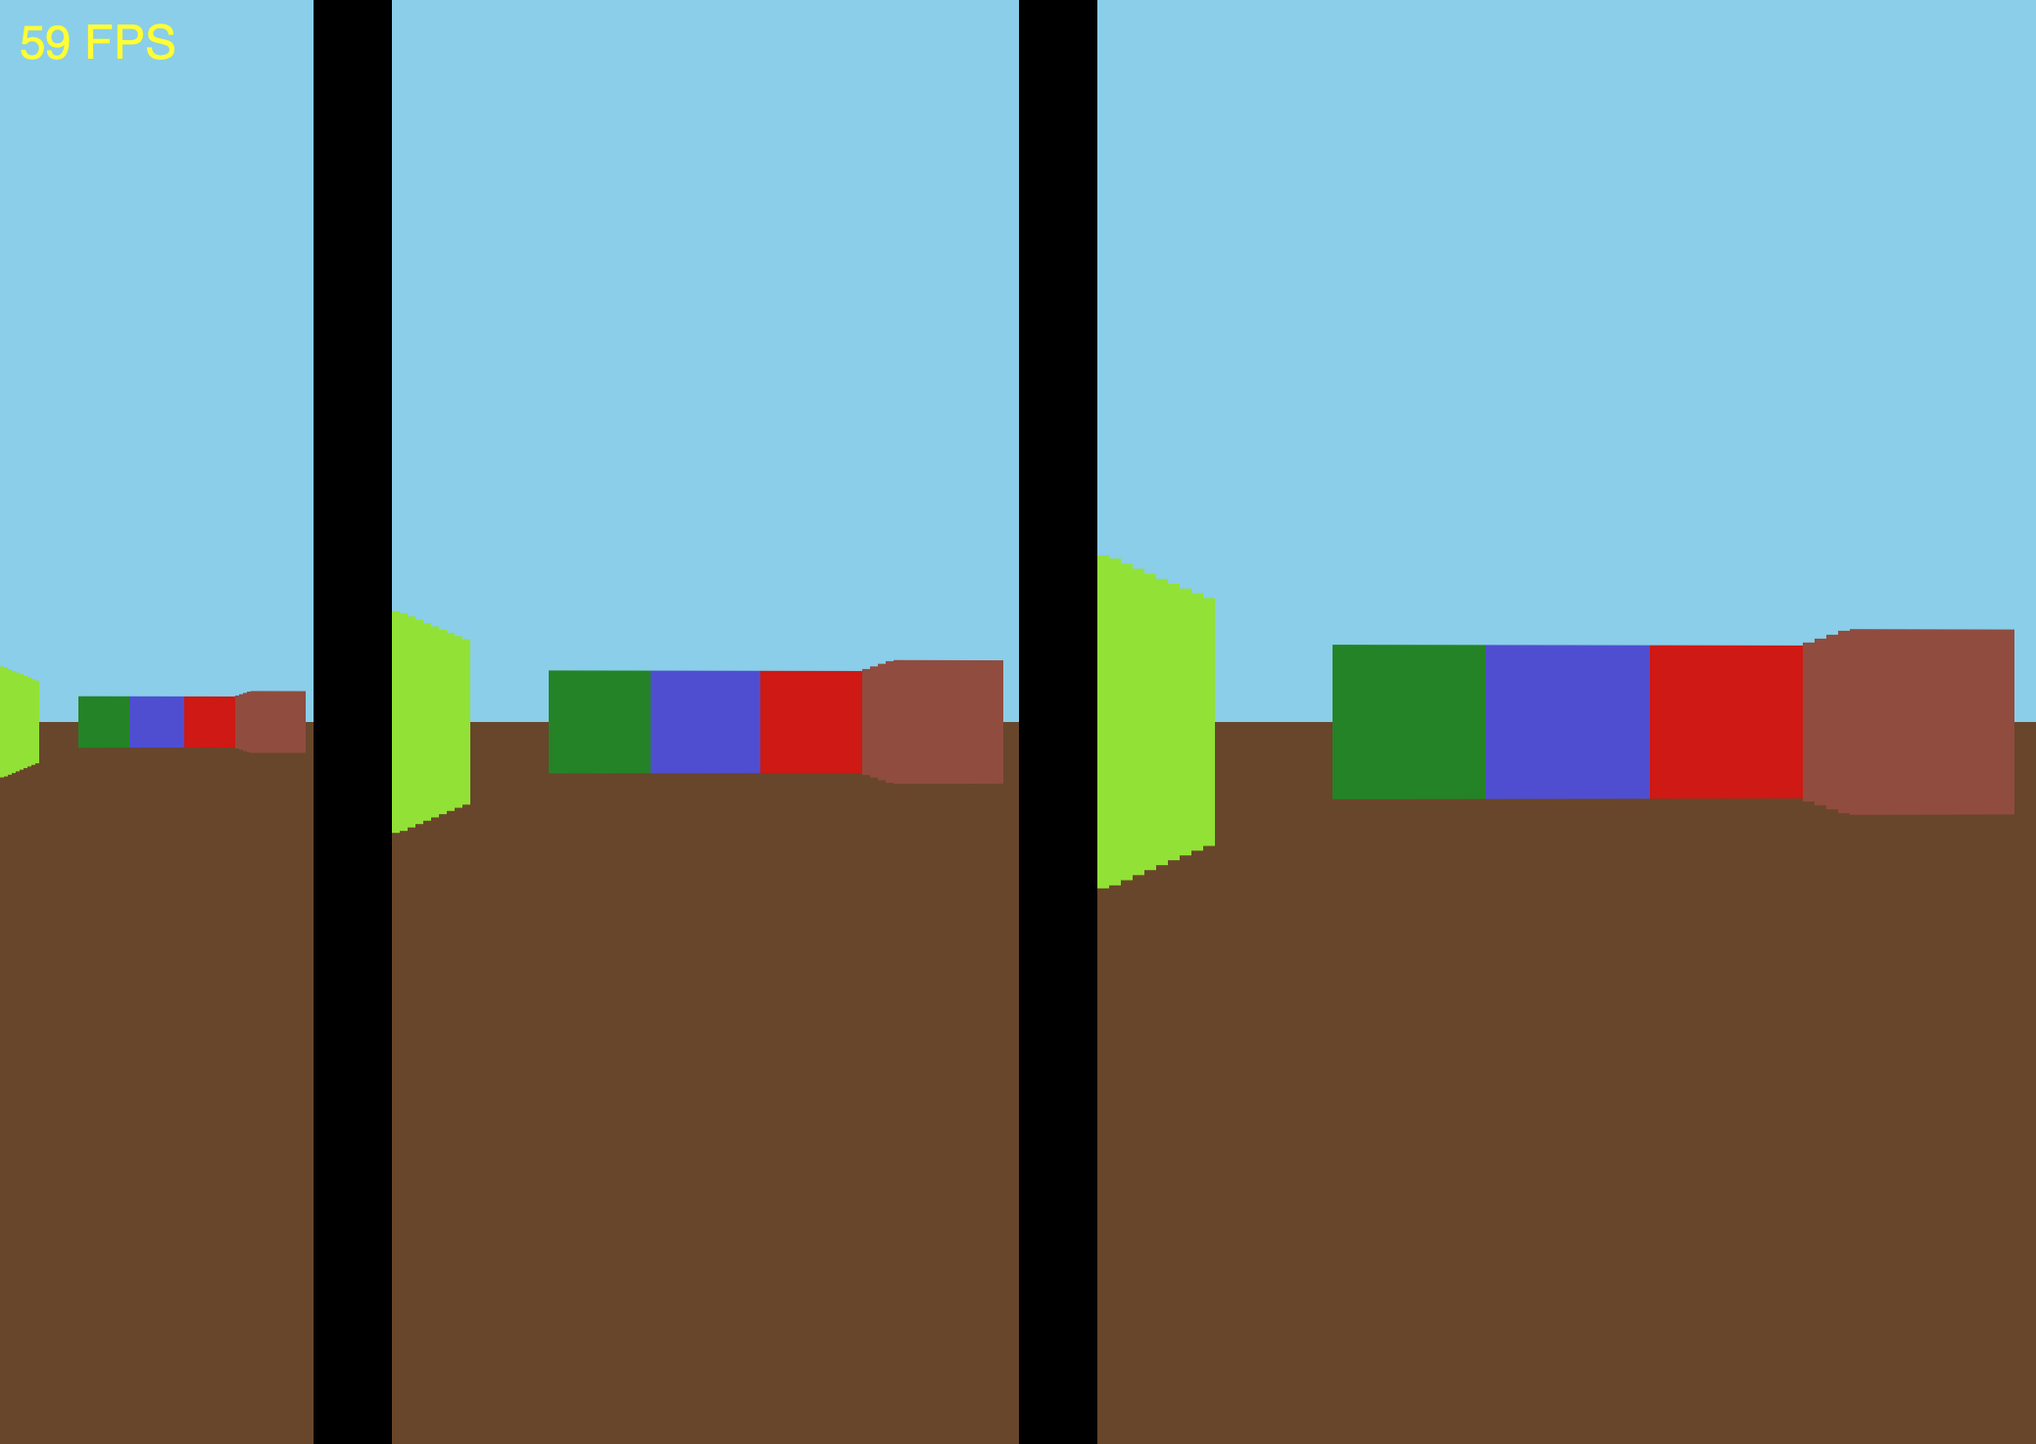
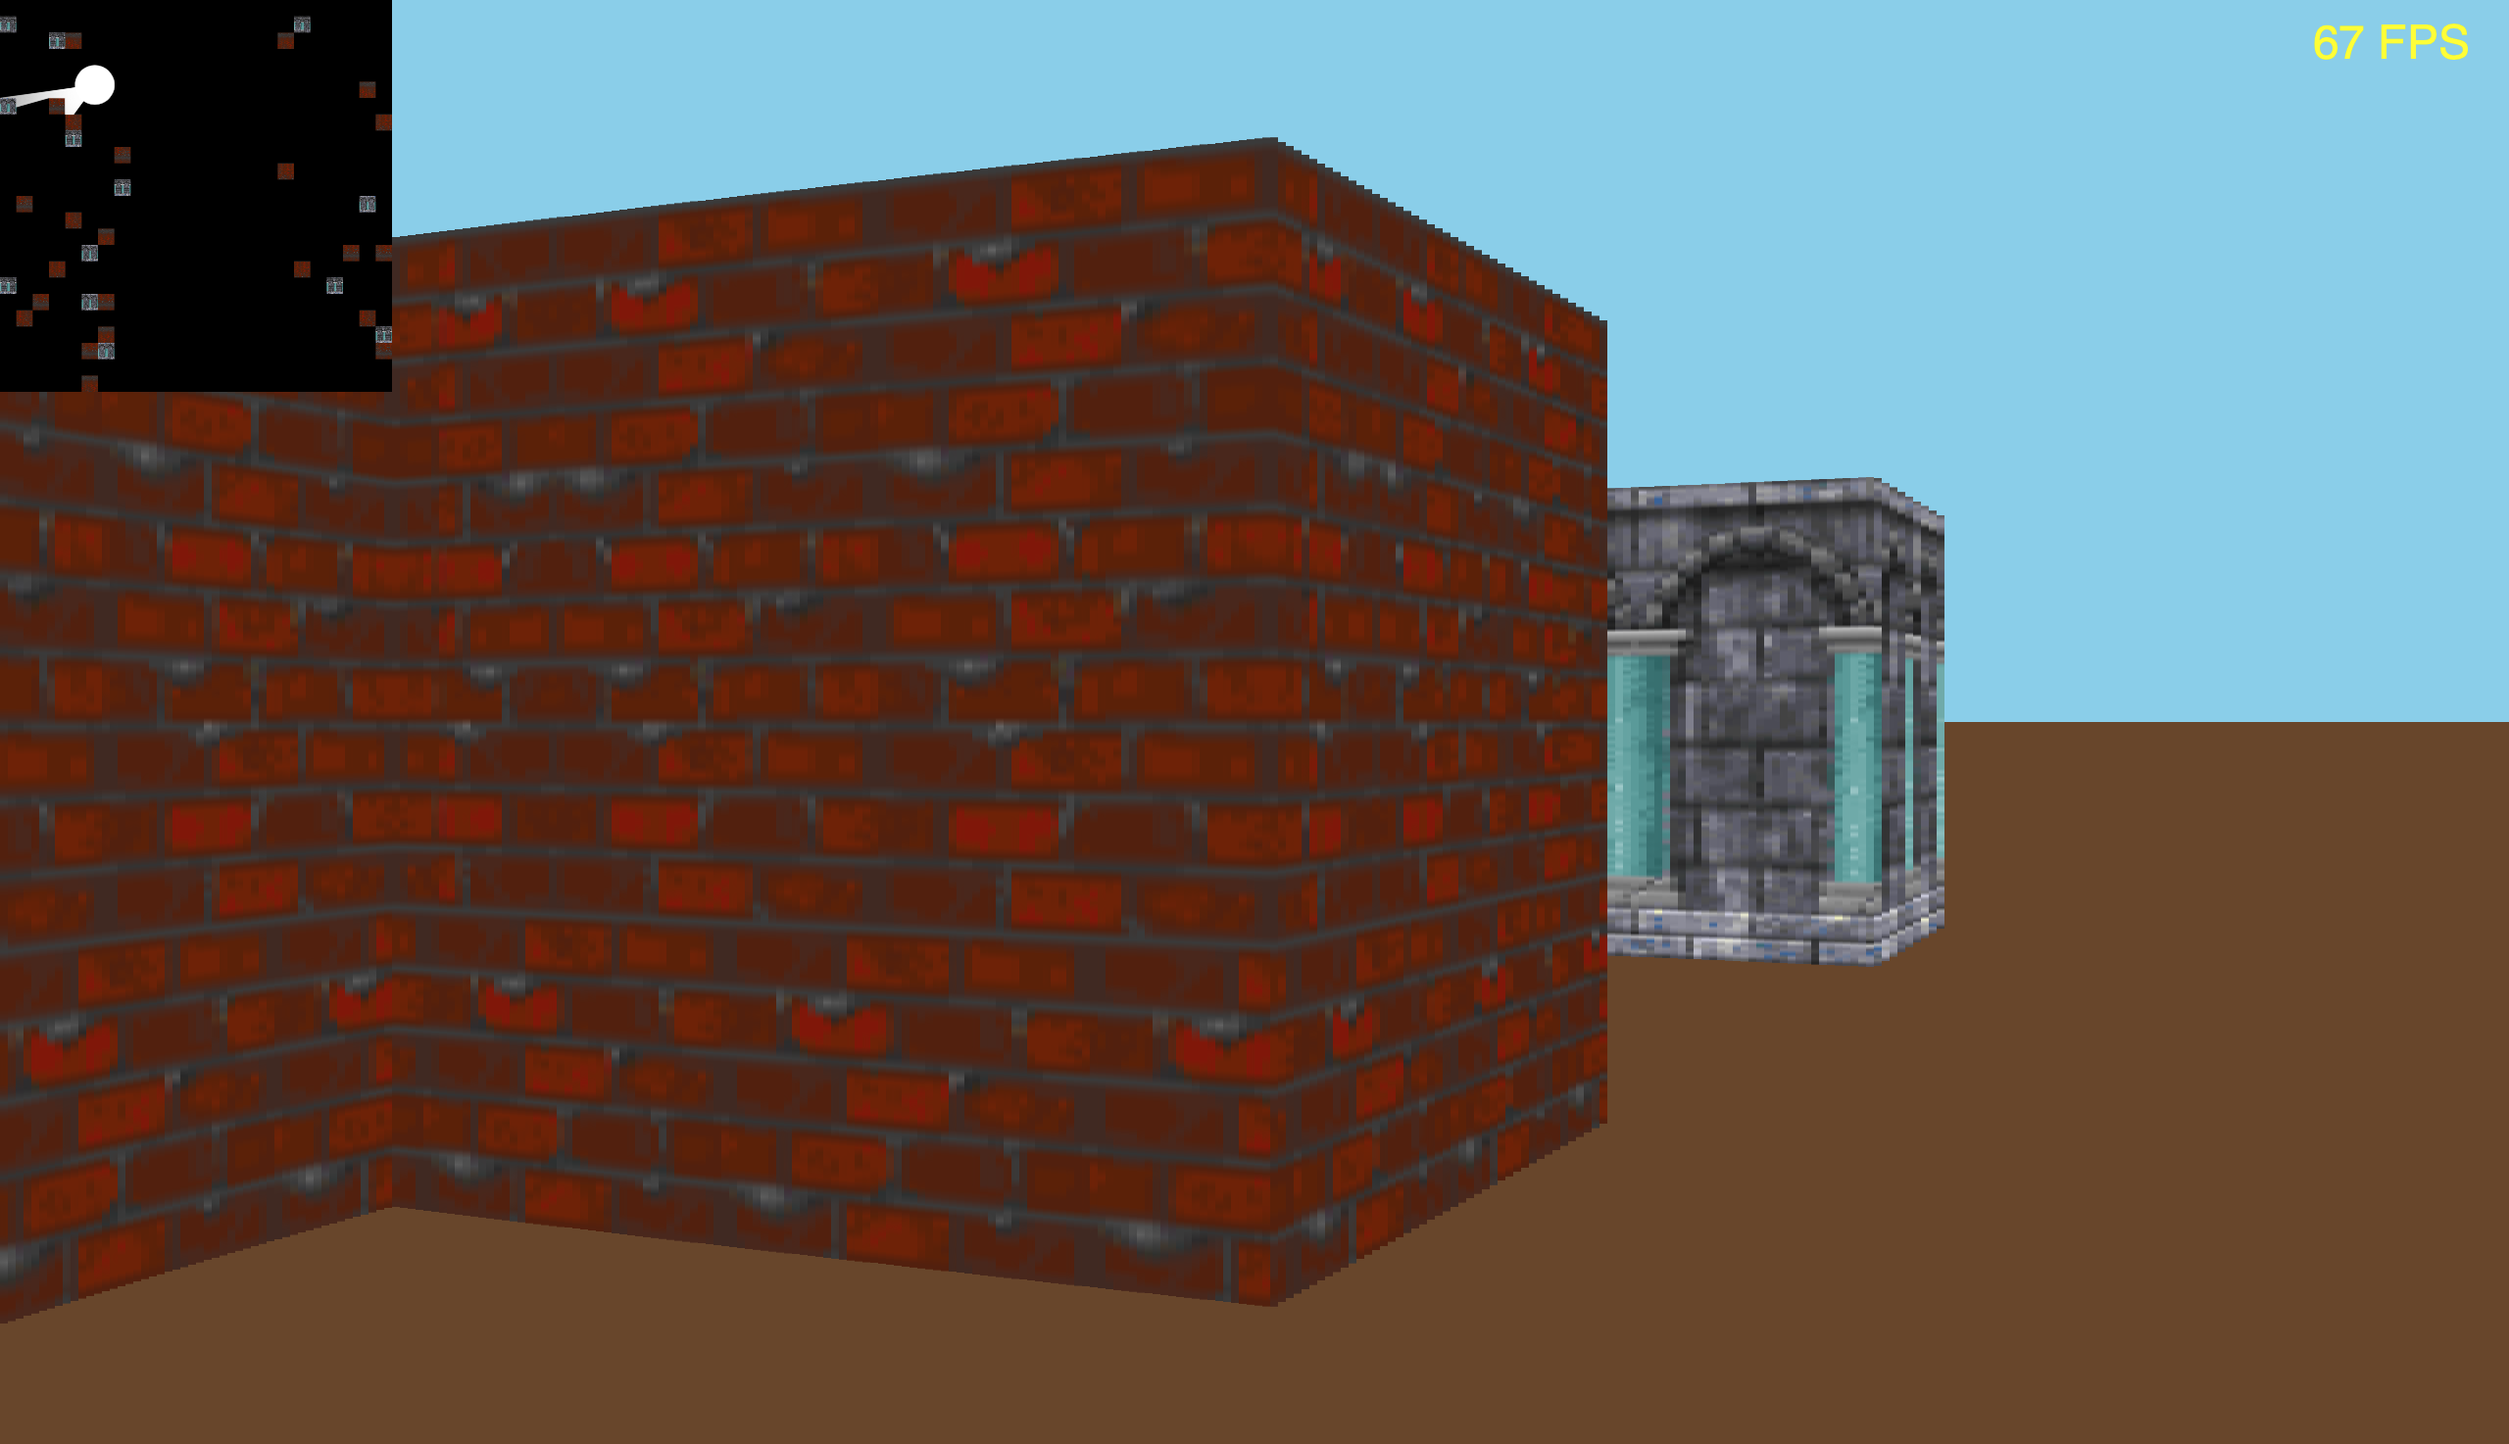
Add texturing

diff --git a/build/build.js b/build/build.js
@@ -2,8 +2,6 @@ var p;
 var sketch = function (context) {
     p = context;
     var game;
-    p.preload = function () {
-    };
     p.setup = function () {
         p.createCanvas(p.windowWidth, p.windowHeight, p.P2D);
         p.frameRate(60);
@@ -20,17 +18,6 @@ var sketch = function (context) {
         p.background(0);
         game.update();
     };
-};
-var skewImage = function (image, x, y, sliceWidth, left, right) {
-    var slices = p.floor(image.width / sliceWidth);
-    var sw = p.floor(image.width / slices);
-    var step = (right - left) / slices;
-    var h = left;
-    p.imageMode(p.CENTER);
-    for (var i = 0; i < slices; i++) {
-        p.image(image, x + (i + 0.5) * sliceWidth, y, sliceWidth, h, i * sw, 0, sw, image.height);
-        h += step;
-    }
 };
 var sketchP5 = new p5(sketch);
 var GameController = (function () {
@@ -85,7 +72,7 @@ var GameController = (function () {
 }());
 var Actor = (function () {
     function Actor(x, y, nRays) {
-        if (nRays === void 0) { nRays = 160; }
+        if (nRays === void 0) { nRays = 320; }
         this.pos = p.createVector(x, y);
         this.angle = 0;
         this.fov = p.radians(60);
@@ -242,16 +229,16 @@ var __extends = (this && this.__extends) || (function () {
     };
 })();
 var Segment = (function () {
-    function Segment(x1, y1, x2, y2, h, clr) {
-        if (clr === void 0) { clr = null; }
+    function Segment(x1, y1, x2, y2, h, tex) {
+        if (tex === void 0) { tex = null; }
         this.a = p.createVector(x1, y1);
         this.b = p.createVector(x2, y2);
         this.h = h;
-        if (clr) {
-            this.c = clr;
+        if (tex) {
+            this.texture = tex;
         }
         else {
-            this.c = p.color(p.random(255), p.random(255), p.random(255));
+            this.texture = p.loadImage('../../assets/textures/wall.bmp');
         }
     }
     Segment.prototype.getSegments = function () {
@@ -265,7 +252,7 @@ var Segment = (function () {
         configurable: true
     });
     Segment.prototype.show = function () {
-        p.stroke(this.c);
+        p.stroke(255, 0, 0);
         p.line(this.a.x, this.a.y, this.b.x, this.b.y);
     };
     return Segment;
@@ -276,21 +263,18 @@ var Rectangle = (function () {
         this.a = a;
         this.b = b;
         this.h = h;
-        var clr = p.color(p.random(255), p.random(255), p.random(255));
+        this.texture = p.loadImage("../../assets/textures/" + (p.random() < 0.5 ? 'archs' : 'wall') + ".bmp");
         this.segments = new Array(4);
-        this.segments[0] = new Segment(this.position.x, this.position.y, this.position.x + this.a, this.position.y, this.h, clr);
-        this.segments[1] = new Segment(this.position.x, this.position.y, this.position.x, this.position.y + this.b, this.h, clr);
-        this.segments[2] = new Segment(this.position.x + this.a, this.position.y, this.position.x + this.a, this.position.y + this.b, this.h, clr);
-        this.segments[3] = new Segment(this.position.x, this.position.y + this.b, this.position.x + this.a, this.position.y + this.b, this.h, clr);
+        this.segments[0] = new Segment(this.position.x, this.position.y, this.position.x + this.a, this.position.y, this.h, this.texture);
+        this.segments[1] = new Segment(this.position.x, this.position.y, this.position.x, this.position.y + this.b, this.h, this.texture);
+        this.segments[2] = new Segment(this.position.x + this.a, this.position.y, this.position.x + this.a, this.position.y + this.b, this.h, this.texture);
+        this.segments[3] = new Segment(this.position.x, this.position.y + this.b, this.position.x + this.a, this.position.y + this.b, this.h, this.texture);
     }
     Rectangle.prototype.getSegments = function () {
         return this.segments;
     };
     Rectangle.prototype.show = function () {
-        for (var _i = 0, _a = this.segments; _i < _a.length; _i++) {
-            var segment = _a[_i];
-            segment.show();
-        }
+        p.image(this.texture, this.position.x, this.position.y, this.a, this.b);
     };
     return Rectangle;
 }());
@@ -406,12 +390,15 @@ var FirstPersonView = (function (_super) {
                 var offset = p.map(_this.state.actor.rays[i].angle, _this.state.actor.angle - _this.state.actor.fov / 2, _this.state.actor.angle + _this.state.actor.fov / 2, 0, _this.width);
                 var alpha_1 = _this.state.actor.rays[i].angle - _this.state.actor.angle;
                 var cameraDist = c.distance * p.cos(alpha_1);
-                var h = p.min(_this.height, _this.height / cameraDist * (_this.width / (p.displayHeight / c.segment.h)));
+                var h = _this.height / cameraDist * (_this.width / (p.displayHeight / c.segment.h));
                 p.push();
                 p.translate(_this.x, _this.y);
-                p.fill(c.segment.c);
-                p.rectMode(p.CENTER);
-                p.rect(offset + 0.5 * w, _this.height / 2, w, h);
+                var ai = p5.Vector.dist(c.segment.a, c.point);
+                var ib = p5.Vector.dist(c.segment.b, c.point);
+                var sx = ai / (ai + ib) * c.segment.texture.width;
+                var sw = c.segment.texture.width / _this.state.actor.rays.length * ((c.segment.length * p.sqrt(3) / 2) / cameraDist);
+                p.imageMode(p.CENTER);
+                p.image(c.segment.texture, offset + 0.5 * w, _this.height / 2, w, h, sx, 0, sw, c.segment.texture.height);
                 p.pop();
             }
         });

diff --git a/sketch/models/shapes.ts b/sketch/models/shapes.ts
@@ -7,18 +7,18 @@ class Segment implements IShape {
     public a: p5.Vector;
     public b: p5.Vector;
     public h: number;
-    public c: p5.Color;
+    public texture: p5.Image;
 
-    constructor(x1: number, y1: number, x2: number, y2: number, h: number, clr: p5.Color = null) {
+    constructor(x1: number, y1: number, x2: number, y2: number, h: number, tex: p5.Image = null) {
         this.a = p.createVector(x1, y1);
         this.b = p.createVector(x2, y2);
         this.h = h;
 
-        if (clr) {
-            this.c = clr;
+        if (tex) {
+            this.texture = tex;
         }
         else {
-            this.c = p.color(p.random(255), p.random(255), p.random(255));
+            this.texture = p.loadImage('../../assets/textures/wall.bmp');
         }
     }
 
@@ -31,7 +31,7 @@ class Segment implements IShape {
     }
 
     public show(): void {
-        p.stroke(this.c);
+        p.stroke(255, 0, 0);
         p.line(this.a.x, this.a.y, this.b.x, this.b.y);
     }
 }
@@ -41,6 +41,7 @@ class Rectangle implements IShape {
     protected a: number;
     protected b: number;
     protected h: number;
+    protected texture: p5.Image;
     protected segments: Segment[];
 
     constructor(x: number, y: number, a: number, b: number, h: number) {
@@ -49,13 +50,13 @@ class Rectangle implements IShape {
         this.b = b;
         this.h = h;
 
-        const clr = p.color(p.random(255), p.random(255), p.random(255));
+        this.texture = p.loadImage(`../../assets/textures/${p.random() < 0.5 ? 'archs' : 'wall'}.bmp`);
 
         this.segments = new Array(4);
-        this.segments[0] = new Segment(this.position.x, this.position.y, this.position.x + this.a, this.position.y, this.h, clr);
-        this.segments[1] = new Segment(this.position.x, this.position.y, this.position.x, this.position.y + this.b, this.h, clr);
-        this.segments[2] = new Segment(this.position.x + this.a, this.position.y, this.position.x + this.a, this.position.y + this.b, this.h, clr);
-        this.segments[3] = new Segment(this.position.x, this.position.y + this.b, this.position.x + this.a, this.position.y + this.b, this.h, clr);
+        this.segments[0] = new Segment(this.position.x, this.position.y, this.position.x + this.a, this.position.y, this.h, this.texture);
+        this.segments[1] = new Segment(this.position.x, this.position.y, this.position.x, this.position.y + this.b, this.h, this.texture);
+        this.segments[2] = new Segment(this.position.x + this.a, this.position.y, this.position.x + this.a, this.position.y + this.b, this.h, this.texture);
+        this.segments[3] = new Segment(this.position.x, this.position.y + this.b, this.position.x + this.a, this.position.y + this.b, this.h, this.texture);
     }
 
     public getSegments(): Segment[] {
@@ -63,9 +64,7 @@ class Rectangle implements IShape {
     }
 
     public show() {
-        for (let segment of this.segments) {
-            segment.show();
-        }
+        p.image(this.texture, this.position.x, this.position.y, this.a, this.b);
     }
 }
 

diff --git a/sketch/sketch.ts b/sketch/sketch.ts
@@ -3,17 +3,13 @@ var p: p5;
 var sketch = (context: p5) => {
     p = context;
     var game: GameController;
-    //var texture: p5.Image;
-
-    p.preload = () => {
-        //texture = p.loadImage("../assets/textures/archs.bmp");
-    }
 
     p.setup = () => {
         p.createCanvas(p.windowWidth, p.windowHeight, p.P2D);
         p.frameRate(60);
         p.textSize(30);
 
+        // * FULL-SCREEN VIEW WITH MINIMAP
         const state = new GameState(24, 24);
         const view = new CompositeView([
             new FirstPersonView(0, 0, p.width, p.height, state),
@@ -21,29 +17,34 @@ var sketch = (context: p5) => {
             new FPSView(p.width - 100, 30)
         ]);
 
+        // * SPLIT-SCREEN VIEW
+        // const view = new CompositeView([
+        //     new FirstPersonView(p.width / 2, 0, p.width / 2, p.height, state),
+        //     new RaycastView(0, 0, p.width / 2, p.height, state),
+        //     new FPSView(p.width - 100, 30)
+        // ]);
+
         game = new GameController(state, view);
     }
 
     p.draw = () => {
         p.background(0);
         game.update();
-
-        // TODO: Texturing
-        //skewImage(texture, p.width / 2, 200, 4, 100, 200);
     }
 }
 
-var skewImage = (image: p5.Image, x: number, y: number, sliceWidth: number, left: number, right: number) => {
-    const slices = p.floor(image.width / sliceWidth);
-    const sw = p.floor(image.width / slices);
-    const step = (right - left) / slices;
-    var h = left;
+// TODO: USE WITH TRAPEZOIDS
+// var skewImage = (image: p5.Image, x: number, y: number, sliceWidth: number, left: number, right: number) => {
+//     const slices = p.floor(image.width / sliceWidth);
+//     const sw = p.floor(image.width / slices);
+//     const step = (right - left) / slices;
+//     var h = left;
 
-    p.imageMode(p.CENTER);
-    for (let i = 0; i < slices; i++) {
-        p.image(image, x + (i + 0.5) * sliceWidth, y, sliceWidth, h, i * sw, 0, sw, image.height);
-        h += step;
-    }
-}
+//     p.imageMode(p.CENTER);
+//     for (let i = 0; i < slices; i++) {
+//         p.image(image, x + (i + 0.5) * sliceWidth, y, sliceWidth, h, i * sw, 0, sw, image.height);
+//         h += step;
+//     }
+// }
 
 var sketchP5 = new p5(sketch);

diff --git a/sketch/views/view.ts b/sketch/views/view.ts
@@ -122,13 +122,19 @@ class FirstPersonView extends GameView {
                 const offset = p.map(this.state.actor.rays[i].angle, this.state.actor.angle - this.state.actor.fov / 2, this.state.actor.angle + this.state.actor.fov / 2, 0, this.width);
                 const alpha = this.state.actor.rays[i].angle - this.state.actor.angle;
                 const cameraDist = c.distance * p.cos(alpha);
-                const h = p.min(this.height, this.height / cameraDist * (this.width / (p.displayHeight / c.segment.h)));
+                const h = this.height / cameraDist * (this.width / (p.displayHeight / c.segment.h));
 
                 p.push();
                 p.translate(this.x, this.y);
-                p.fill(c.segment.c);
-                p.rectMode(p.CENTER);
-                p.rect(offset + 0.5 * w, this.height / 2, w, h);
+                
+                const ai = p5.Vector.dist(c.segment.a, c.point);
+                const ib = p5.Vector.dist(c.segment.b, c.point);
+                
+                const sx = ai / (ai + ib) * c.segment.texture.width;
+                const sw = c.segment.texture.width / this.state.actor.rays.length * ((c.segment.length * p.sqrt(3) / 2) / cameraDist);
+
+                p.imageMode(p.CENTER);
+                p.image(c.segment.texture, offset + 0.5 * w, this.height / 2, w, h, sx, 0, sw, c.segment.texture.height);
                 p.pop();
             }
         });

diff --git a/sketch/models/actor.ts b/sketch/models/actor.ts
@@ -1,10 +1,10 @@
-class Actor{
+class Actor {
     pos: p5.Vector;
     angle: number;
     fov: number;
     rays: Ray[];
 
-    constructor(x: number, y: number, nRays: number = 160) {
+    constructor(x: number, y: number, nRays: number = 320) {
         this.pos = p.createVector(x, y);
         this.angle = 0;
         this.fov = p.radians(60);

diff --git a/readme.md b/readme.md
@@ -6,13 +6,12 @@ Working:
 * Naive raycasting - O(rays * segments)
 * Compliance with MVC pattern
 * Segment height and width ratio independent from display size
+* Texturing
 
 Views:
 * 2D level view
 * Pseudo-3D first person view
 * FPS counter
-
-
 
 Move with WSAD, run with left Shift, look around with your mouse. Change views / level size in the setup function.
 
